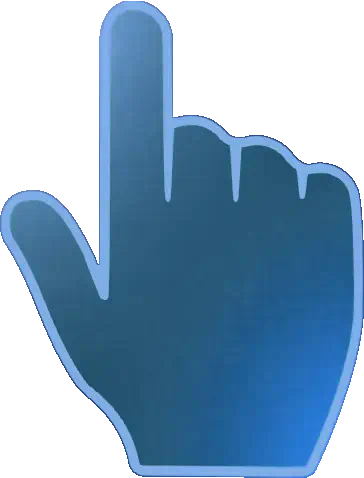
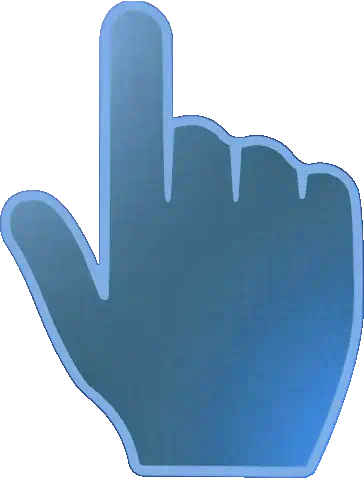
.

diff --git a/src/Tutorial/ts.svelte.js b/src/Tutorial/ts.svelte.js
@@ -83,7 +83,7 @@ export const drawTile = () => {
 
 const onStep = (step) => {
     ts.step = step;
-    // _sound.play('draw', { rate: 4 });
+    _sound.play('draw', { rate: 4 });
 };
 
 const step2 = () => {
@@ -164,9 +164,7 @@ const step3 = () => {
                     const bits = validateMove(ts.from, placement, ts.tiles);
 
                     doPlacement(placement, bits);
-
                     step4();
-                    post(step5, 3000);
                 });
             }, 200);
         }, 3500);
@@ -179,6 +177,7 @@ const step4 = () => {
     }
 
     onStep(4);
+    post(step5, 3000);
 };
 
 const step5 = () => {
@@ -271,7 +270,6 @@ const step7 = () => {
     }
 
     onStep(7);
-
     post(step8, 3000);
 };
 
@@ -308,7 +306,7 @@ const step8 = () => {
                 }
 
                 hand.scale = 1;
-                hand.off = { x: 102, y: 257 };
+                hand.off = { x: 103, y: 257 };
 
                 post(() => {
                     if (!ss.tutorial) {
@@ -341,7 +339,7 @@ const step8 = () => {
                                 }
 
                                 hand.show = true;
-                                hand.off = { x: 102, y: 287 };
+                                hand.off = { x: 103, y: 285 };
 
                                 post(() => {
                                     if (!ss.tutorial) {
@@ -359,7 +357,7 @@ const step8 = () => {
                                         }
 
                                         hand.scale = 1;
-                                        hand.off = { x: 152, y: 287 };
+                                        hand.off = { x: 152, y: 285 };
 
                                         post(() => {
                                             if (!ss.tutorial) {
@@ -385,8 +383,8 @@ const step8 = () => {
                                                     const bits = validateMove(ts.from, placement, ts.tiles);
 
                                                     doPlacement(placement, bits);
-                                                    post(step9, 3000);
-                                                }, 2000);
+                                                    post(step9, 2000);
+                                                });
                                             }, 200);
                                         }, 3500);
                                     }, 200);
@@ -433,7 +431,35 @@ const step9 = () => {
                 }
 
                 hand.scale = 1;
-                // post(step3, 1000);
+                hand.off = { x: 103, y: 257 };
+
+                post(() => {
+                    if (!ss.tutorial) {
+                        return;
+                    }
+
+                    hand.scale = 0.8;
+                    _sound.play('click');
+
+                    post(() => {
+                        if (!ss.tutorial) {
+                            return;
+                        }
+
+                        hand.scale = 1;
+
+                        post(() => {
+                            if (!ss.tutorial) {
+                                return;
+                            }
+
+                            const placement = { row: 5, col: 3, sector: 2 };
+                            const bits = validateMove(ts.from, placement, ts.tiles);
+
+                            doPlacement(placement, bits);
+                        });
+                    }, 200);
+                }, 3500);
             }, 200);
         }, 3500);
     });

diff --git a/src/Spot.svelte b/src/Spot.svelte
@@ -53,7 +53,7 @@
 		}
 
 		clickSector = i;
-		post(() => clickSector = 0, 750);
+		post(() => (clickSector = 0), 750);
 
 		const bits = validateMove(ss.from, placement, ss.tiles);
 
@@ -109,7 +109,7 @@
 	{#snippet sector(i)}
 		{@const deg = ((i - 1) * 60) % 360}
 		{@const stroke = tile ? 'none' : 'var(--spoke)'}
-		{@const fill = clickSector === i ? 'var(--spoke)' : 'none'}
+		{@const fill = !tile && clickSector === i ? 'var(--spoke)' : 'none'}
 		{@const sw = tile ? 0 : 10}
 		<g transform="rotate({deg}, 363, 314)" {stroke} stroke-width={sw} stroke-line-join="round" fill="transparent">
 			<path class="sector {canClick ? 'ape' : 'nope'}" d="M363,314 183,8 543,8 Z" {fill} onpointerdown={() => onClick(i)} />
